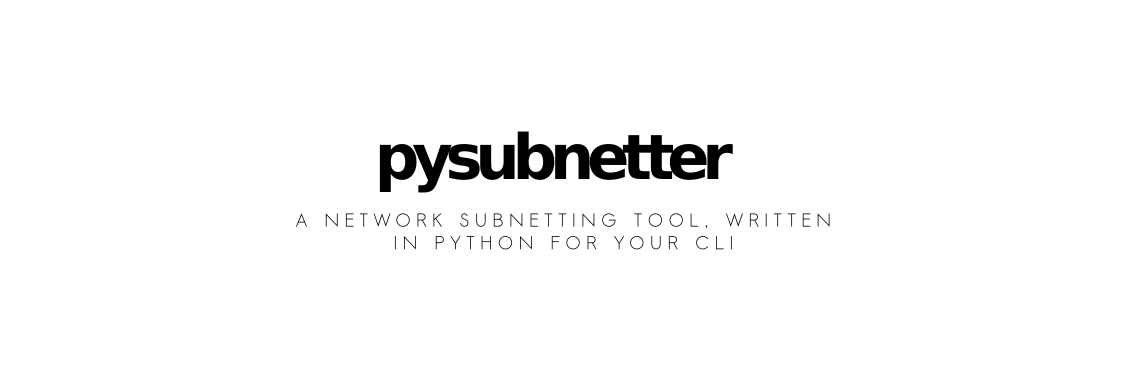
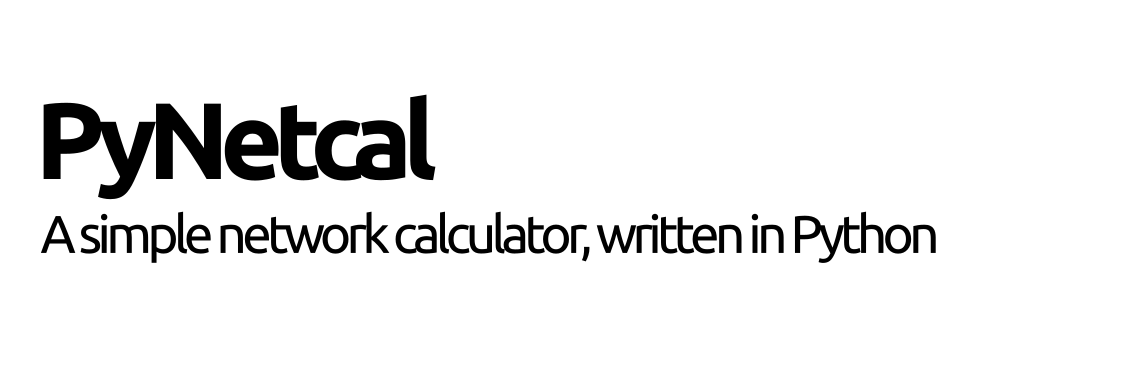
Renamed project and did code refactoring from pysubnetter to pynetcal and PySubnetter to PyNetcal

Changed region(s): [[0.0312, 0.2619, 0.6545, 0.5238], [0.0312, 0.5529, 0.8415, 0.6984]]

diff --git a/pynetcal/tests/test_pysubnetter.py b/pynetcal/tests/test_pysubnetter.py
@@ -1,11 +1,11 @@
-"""All tests for pysubnetter.py module and 
+"""All tests for pynetcal.py module and 
 functionality all in here.
 """
 import pytest
 from ipaddress import IPv4Address, IPv4Network
-from pysubnetter.pysubnetter import PySubnetter
-from pysubnetter.ipv4subnetlist import IPv4SubnetList
-from pysubnetter.ipv4subnet import IPv4Subnet
+from pynetcal.pynetcal import PyNetcal
+from pynetcal.ipv4subnetlist import IPv4SubnetList
+from pynetcal.ipv4subnet import IPv4Subnet
 
 
 
@@ -36,14 +36,14 @@ from pysubnetter.ipv4subnet import IPv4Subnet
 
     ]
 )
-def test_PySubnetter_ipv4_calculate_subnets_flsm_validargs(
+def test_PyNetcal_ipv4_calculate_subnets_flsm_validargs(
         network, hosts, subnets, prioritize_host,
         expected_result
     ):
-    """Tests PySubnetter.ipv4_calculate_subnets_flsm()
+    """Tests PyNetcal.ipv4_calculate_subnets_flsm()
     function for FLSM subnetting mode
     """
-    subnetter = PySubnetter()
+    subnetter = PyNetcal()
     the_result = subnetter.ipv4_calculate_subnets_flsm(
         network, hosts, subnets, prioritize_host
     )
@@ -68,11 +68,11 @@ def test_PySubnetter_ipv4_calculate_subnets_flsm_validargs(
         ],
     ]
 )
-def test_PySubnetter_ipv4_calculate_subnets_vlsm(network, hosts, expected_result):
-    """Tests PySubnetter.ipv4_calculate_subnets_vlsm()
+def test_PyNetcal_ipv4_calculate_subnets_vlsm(network, hosts, expected_result):
+    """Tests PyNetcal.ipv4_calculate_subnets_vlsm()
     function for VLSM subnetting mode
     """
-    subnetter = PySubnetter()
+    subnetter = PyNetcal()
     the_result = subnetter.ipv4_calculate_subnets_vlsm(network, hosts)
     assert the_result == expected_result
 

diff --git a/main.py b/main.py
@@ -2,16 +2,16 @@
 
 
 Subnetting FLSM
-$ pysubnetter 192.168.1.0/24 --hosts 40 --subnets 10
+$ pynetcal 192.168.1.0/24 --hosts 40 --subnets 10
 
 Subnetting VLSM
-$ pysubnetter 192.168.1.0/24 --hosts 104 5 10 45
+$ pynetcal 192.168.1.0/24 --hosts 104 5 10 45
 
 
 
 
 """
-from pysubnetter.pysubnetter import PySubnetter
+from pynetcal.pynetcal import PyNetcal
 from ipaddress import IPv4Network
 
 import argparse
@@ -34,7 +34,7 @@ modeIsVlsm = len(args.hosts)!=1
 prioritizeHosts = args.priority == "hosts"
 
 # create the subnetting object
-subnetter = PySubnetter()
+subnetter = PyNetcal()
 
 
 
@@ -57,7 +57,7 @@ def output_subnet_table(all_subnets):
 	    UNDERLINE = '\033[4m'
 
 
-	header = """
+	header = r"""
                            _                   _    _              
                           | |                 | |  | |             
  _ __   _   _  ___  _   _ | |__   _ __    ___ | |_ | |_  ___  _ __ 
@@ -68,7 +68,7 @@ def output_subnet_table(all_subnets):
 |_|     |___/                                                      
 
 Developed by Louis Ronald, (C) 2020.
-https://github.com/louisronron/pysubnetter	
+https://github.com/louisronron/pynetcal	
 Distributed under GPLv3
 
 """

diff --git a/pynetcal/pynetcal.py b/pynetcal/pynetcal.py
@@ -1,10 +1,10 @@
 from ipaddress import IPv4Address, IPv4Network
-import pysubnetter.ipv4networkclasses as ipv4helper
-from pysubnetter.ipv4subnet import IPv4Subnet
-from pysubnetter.ipv4subnetlist import IPv4SubnetList
-from pysubnetter.ipv4subnetmask import IPv4SubnetMask
+import pynetcal.ipv4networkclasses as ipv4helper
+from pynetcal.ipv4subnet import IPv4Subnet
+from pynetcal.ipv4subnetlist import IPv4SubnetList
+from pynetcal.ipv4subnetmask import IPv4SubnetMask
 
-class PySubnetter:
+class PyNetcal:
 
     @classmethod
     def ipv4_calculate_subnets_flsm(self, ipv4network, hosts=None,

diff --git a/pynetcal/tests/test_ipv4subnetlist.py b/pynetcal/tests/test_ipv4subnetlist.py
@@ -2,9 +2,9 @@
 
 import pytest
 from ipaddress import IPv4Network
-from pysubnetter.ipv4subnet import IPv4Subnet
-from pysubnetter.ipv4subnetmask import IPv4SubnetMask
-from pysubnetter.ipv4subnetlist import IPv4SubnetList
+from pynetcal.ipv4subnet import IPv4Subnet
+from pynetcal.ipv4subnetmask import IPv4SubnetMask
+from pynetcal.ipv4subnetlist import IPv4SubnetList
 
 
 @pytest.fixture

diff --git a/pynetcal/tests/test_ipv4subnet.py b/pynetcal/tests/test_ipv4subnet.py
@@ -4,8 +4,8 @@ module in here.
 
 import pytest
 from ipaddress import IPv4Address, IPv4Network
-from pysubnetter.ipv4subnet import IPv4Subnet
-from pysubnetter.ipv4subnetmask import IPv4SubnetMask
+from pynetcal.ipv4subnet import IPv4Subnet
+from pynetcal.ipv4subnetmask import IPv4SubnetMask
 
 
 # Test for IPv4Subnet.__init__()

diff --git a/pynetcal/ipv4subnetmask.py b/pynetcal/ipv4subnetmask.py
@@ -6,7 +6,7 @@ __author__ = 'Louis Ronald'
 
 from ipaddress import IPv4Address, IPv4Network
 import re
-import pysubnetter.ipv4networkclasses as ipv4helper
+import pynetcal.ipv4networkclasses as ipv4helper
 
 class IPv4SubnetMask:
     """Represents a single and valid IPv4 

diff --git a/pynetcal/ipv4subnet.py b/pynetcal/ipv4subnet.py
@@ -3,7 +3,7 @@ defines the IPv4Subnet class
 """
 
 from ipaddress import IPv4Network
-from pysubnetter.ipv4subnetmask import IPv4SubnetMask
+from pynetcal.ipv4subnetmask import IPv4SubnetMask
 
 class IPv4Subnet:
     """Represents a single IPv4 subnet"""

diff --git a/pynetcal/ipv4subnetlist.py b/pynetcal/ipv4subnetlist.py
@@ -2,7 +2,7 @@
 the IPv4SubnetList class, and helper methods
 """
 
-from pysubnetter.ipv4subnet import IPv4Subnet
+from pynetcal.ipv4subnet import IPv4Subnet
 
 class IPv4SubnetList:
     """Represents a collection of 

diff --git a/pynetcal/tests/test_ipv4subnetmask.py b/pynetcal/tests/test_ipv4subnetmask.py
@@ -2,7 +2,7 @@
 
 import pytest
 from ipaddress import IPv4Address
-from pysubnetter.ipv4subnetmask import IPv4SubnetMask
+from pynetcal.ipv4subnetmask import IPv4SubnetMask
 
 
 # Tests for __init__ method

diff --git a/pynetcal/tests/test_ipv4networkclasses.py b/pynetcal/tests/test_ipv4networkclasses.py
@@ -5,7 +5,7 @@ module in here.
 
 import pytest
 from ipaddress import IPv4Network, IPv4Address
-import pysubnetter.ipv4networkclasses as ipv4nets
+import pynetcal.ipv4networkclasses as ipv4nets
 
 
 

diff --git a/pynetcal/__init__.py b/pynetcal/__init__.py
@@ -1,0 +1,1 @@
+__package__ = "pynetcal"
